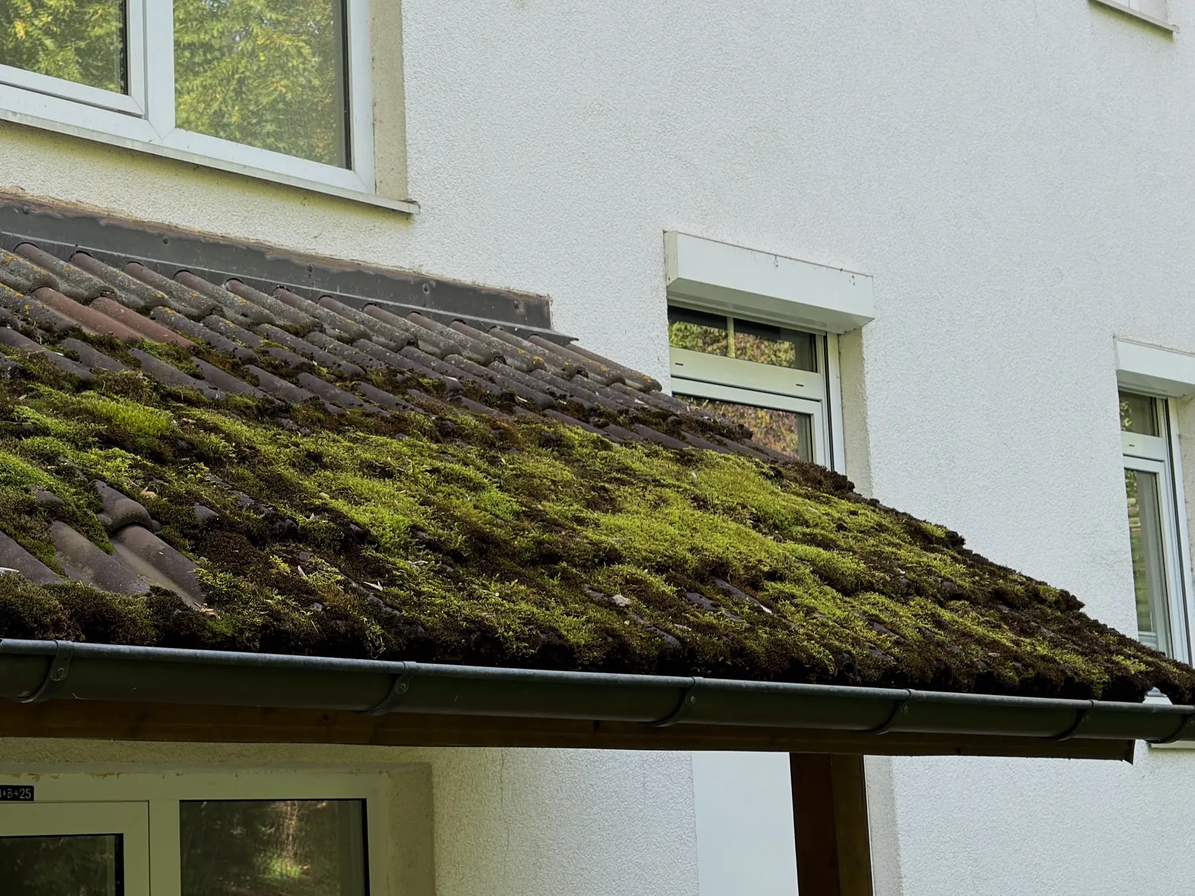
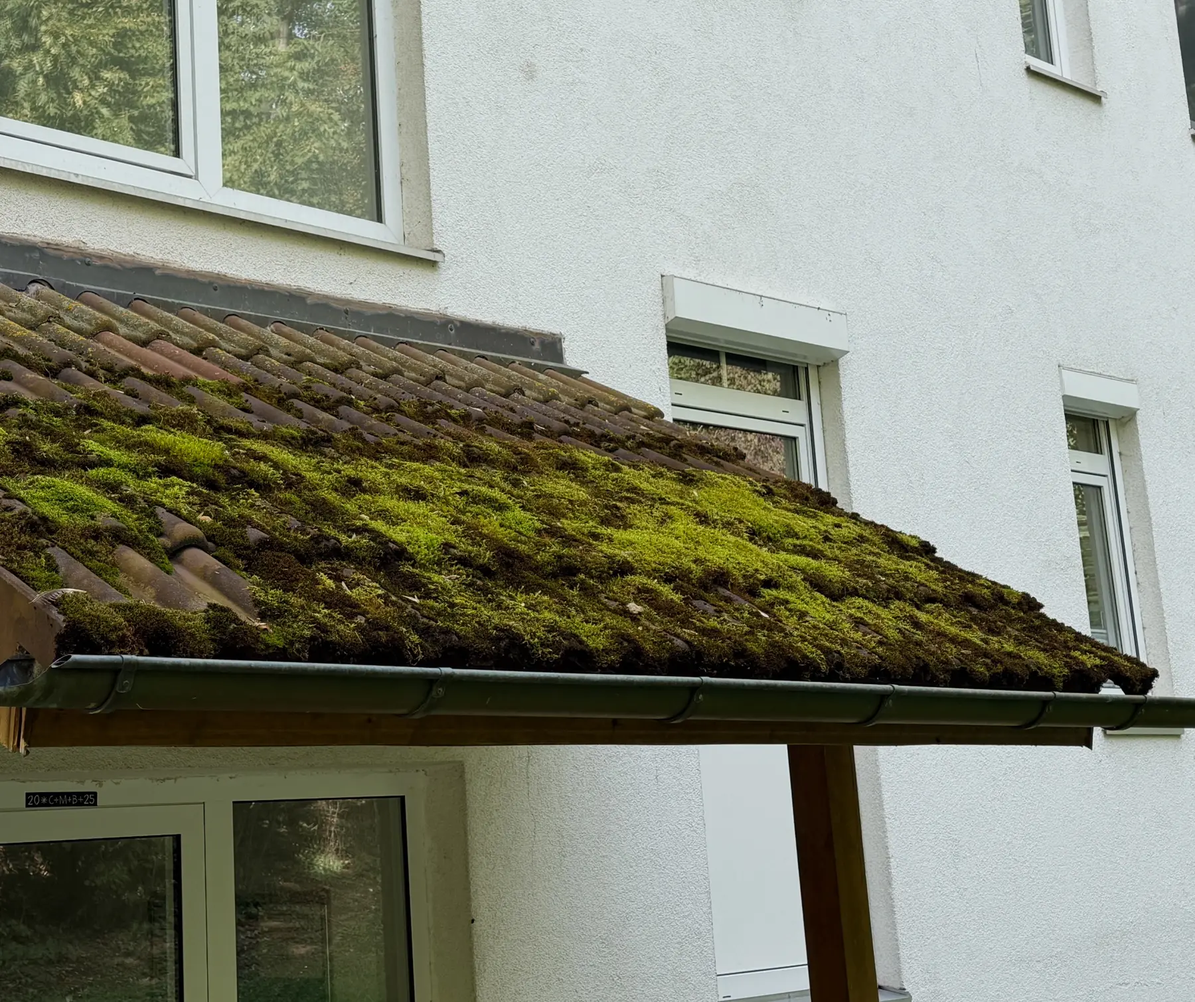
Moosdach-Foto auf Coburg-Dachreinigungsseite durch neues Vordach-Bild ersetzen
Neues, nahezu identisches Motiv (moosbewachsenes Vordach am Haus)
ersetzt das bisherige Foto. Seitenverhältnis-Container an die echten
Bildmaße angepasst, damit nichts beschnitten wird.

Claude-Session: https://claude.ai/code/session_01EYqoVsTLoWpRzmf7nQhqMt

diff --git a/src/pages/leistungen/dachreinigung-coburg.html b/src/pages/leistungen/dachreinigung-coburg.html
@@ -66,7 +66,7 @@ pagecss: pages.css
 
       <div class="detail-block reverse">
         <div class="detail-media reveal-scale">
-          <div class="img-placeholder" style="aspect-ratio:4/3;"><img loading="lazy" decoding="async" src="{{PREFIX}}assets/img/dachreinigung-coburg-moosiges-dach-vorher.webp" alt="Jahrelang ungereinigtes, moosbefallenes Ziegeldach vor der Dachreinigung in Coburg" style="display:block;width:100%;height:100%;object-fit:cover;" /></div>
+          <div class="img-placeholder" style="aspect-ratio:1800/1510;"><img loading="lazy" decoding="async" src="{{PREFIX}}assets/img/dachreinigung-coburg-moosiges-dach-vorher.webp" alt="Jahrelang ungereinigtes, moosbefallenes Ziegeldach vor der Dachreinigung in Coburg" style="display:block;width:100%;height:100%;object-fit:cover;" /></div>
           <p class="reveal" style="margin-top:0.6rem;margin-bottom:0.9rem;font-size:0.9rem;color:var(--anthracite-soft);text-align:center;">Hier ist eine Dachfläche zu sehen, welche über viele Jahre nie gereinigt worden ist.</p>
         </div>
         <div class="detail-text reveal">

diff --git a/dist/leistungen/dachreinigung-coburg.html b/dist/leistungen/dachreinigung-coburg.html
@@ -280,7 +280,7 @@
 
       <div class="detail-block reverse">
         <div class="detail-media reveal-scale">
-          <div class="img-placeholder" style="aspect-ratio:4/3;"><img loading="lazy" decoding="async" src="../assets/img/dachreinigung-coburg-moosiges-dach-vorher.webp" alt="Jahrelang ungereinigtes, moosbefallenes Ziegeldach vor der Dachreinigung in Coburg" style="display:block;width:100%;height:100%;object-fit:cover;" /></div>
+          <div class="img-placeholder" style="aspect-ratio:1800/1510;"><img loading="lazy" decoding="async" src="../assets/img/dachreinigung-coburg-moosiges-dach-vorher.webp" alt="Jahrelang ungereinigtes, moosbefallenes Ziegeldach vor der Dachreinigung in Coburg" style="display:block;width:100%;height:100%;object-fit:cover;" /></div>
           <p class="reveal" style="margin-top:0.6rem;margin-bottom:0.9rem;font-size:0.9rem;color:var(--anthracite-soft);text-align:center;">Hier ist eine Dachfläche zu sehen, welche über viele Jahre nie gereinigt worden ist.</p>
         </div>
         <div class="detail-text reveal">
